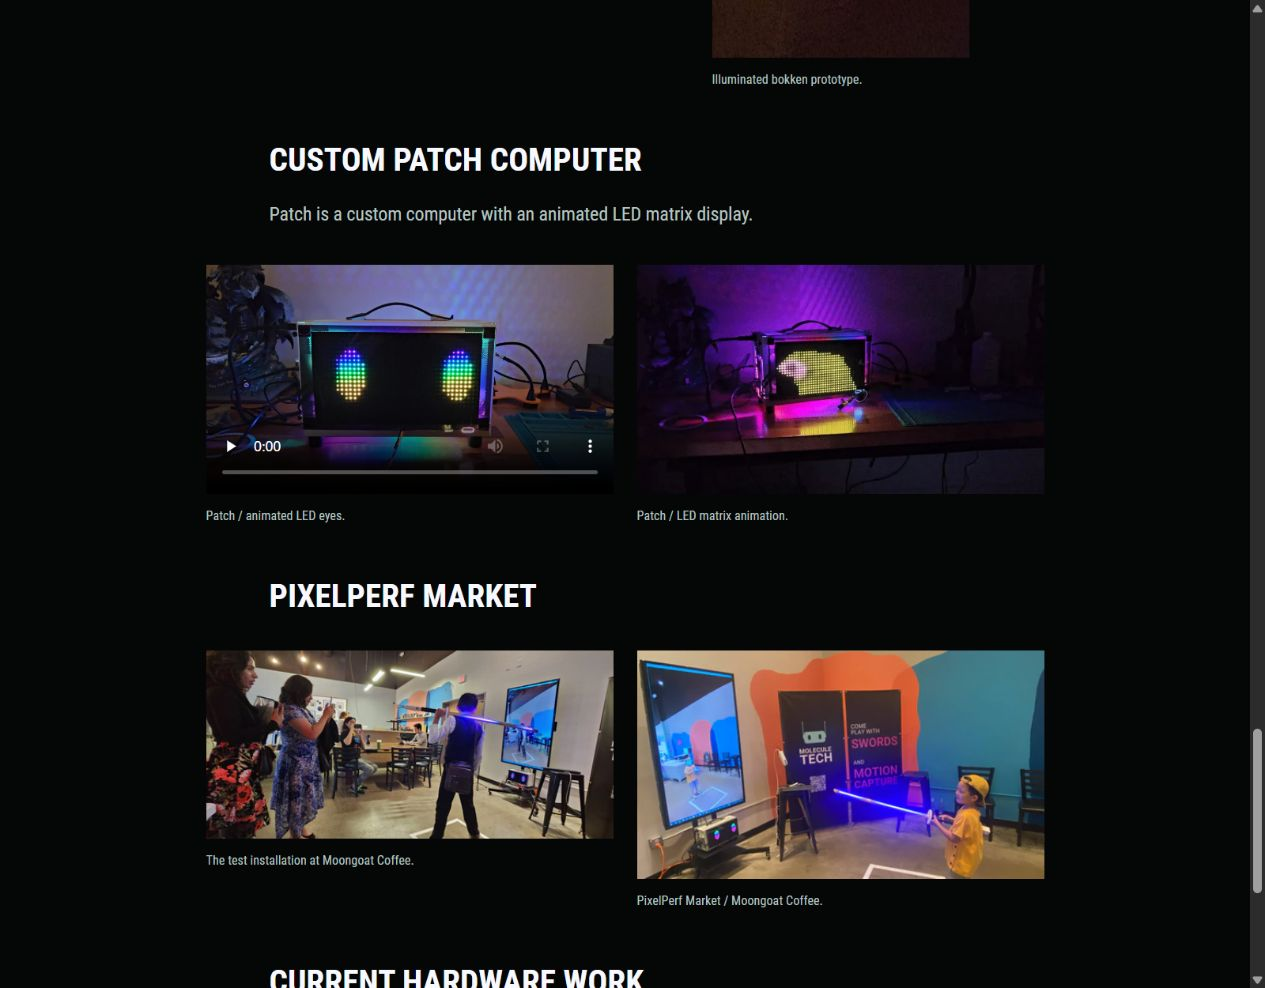
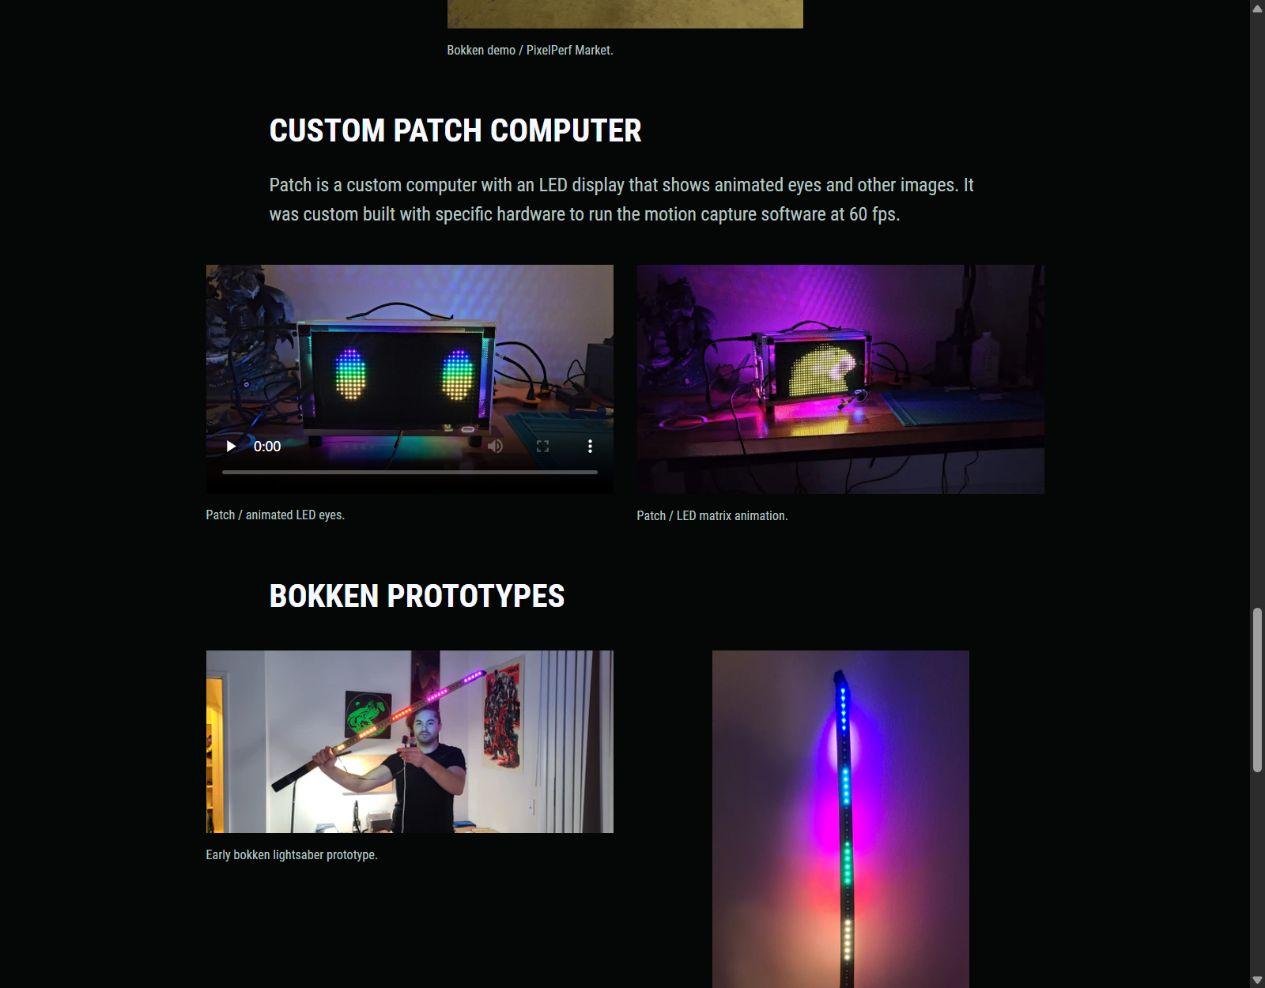
Move Patch above prototypes and revise demo copy

diff --git a/content/work/motion-capture-lightsabers/index.md b/content/work/motion-capture-lightsabers/index.md
@@ -35,22 +35,22 @@ Wooden martial arts practice swords (**bokken**) are fitted with **IMU sensors, 
 
 Each direction has a different color. Point a sword north and it always shows the same color, wherever you are.
 
-{{< work-image source="portfolio/molecule/pixelperf-sword-demo.webp" animated="true" class="portrait" alt="Melissa spinning a bokken at PixelPerf Market as its lights change color." caption="Melissa spinning a bokken / PixelPerf Market." >}}
-
-### Bokken prototypes {#lightsaber-prototypes}
-
-{{< media-grid >}}
-{{< work-image source="portfolio/molecule/lightsaber-prototype-held.jpg" alt="An early bokken lightsaber prototype held horizontally, with the exposed LED strip illuminated in several colors." caption="Early bokken lightsaber prototype." >}}
-{{< work-image source="portfolio/molecule/lightsaber-prototype-lit.jpg" class="portrait" alt="An illuminated bokken prototype leaning upright against a wall." caption="Illuminated bokken prototype." >}}
-{{< /media-grid >}}
+{{< work-image source="portfolio/molecule/pixelperf-sword-demo.webp" animated="true" class="portrait" alt="A visitor spinning a bokken at PixelPerf Market as its lights change color." caption="Bokken demo / PixelPerf Market." >}}
 
 ## Custom Patch computer
 
-Patch is a custom computer with an LED display that shows animated eyes and other images.
+Patch is a custom computer with an LED display that shows animated eyes and other images. It was custom built with specific hardware to run the motion capture software at 60 fps.
 
 {{< media-grid >}}
 {{< work-video source="portfolio/molecule/patch-led-eyes.mp4" poster="portfolio/molecule/patch-led-eyes.jpg" label="Play the custom Patch computer LED display demonstration" caption="Patch / animated LED eyes." >}}
 {{< work-image source="portfolio/molecule/patch-led-animation.webp" animated="true" alt="Looping LED matrix animation on the custom Patch computer." caption="Patch / LED matrix animation." >}}
+{{< /media-grid >}}
+
+## Bokken prototypes {#lightsaber-prototypes}
+
+{{< media-grid >}}
+{{< work-image source="portfolio/molecule/lightsaber-prototype-held.jpg" alt="An early bokken lightsaber prototype held horizontally, with the exposed LED strip illuminated in several colors." caption="Early bokken lightsaber prototype." >}}
+{{< work-image source="portfolio/molecule/lightsaber-prototype-lit.jpg" class="portrait" alt="An illuminated bokken prototype leaning upright against a wall." caption="Illuminated bokken prototype." >}}
 {{< /media-grid >}}
 
 ## PixelPerf Market

diff --git a/AGENTS.md b/AGENTS.md
@@ -19,6 +19,7 @@ Russell requires the preview script to be restarted after website updates.
 - Russell leads the current game's performance initiative through tools, education, and team culture change. Performance is everyone's responsibility. Do not describe him as individually responsible for all game performance. Keep this leadership context in the planning notes and keep public copy focused on concrete tools for this iteration.
 - Hearthstone's credits card follows its horizontal overview, before the additional prose and gameplay media. Russell removed the closing press-kit/artwork/contribution-explanation paragraph. Keep source provenance in the planning notes without restoring that public paragraph.
 - Motion Capture + Lightsabers uses Russell's selected Patch, prototype, and PixelPerf Market media, recorded in `docs/portfolio/assets/molecule-selected-media.json`. Keep prototype images distinct from event documentation. Preserve original photo framing and upright orientation. Actual videos use native controls, posters, no autoplay, and source-width display caps.
+- Place the Custom Patch computer section before Bokken prototypes. Patch was custom built with specific hardware to run the motion capture software at 60 fps. Do not name the participant in the sword animation's caption or alt text.
 - Preserve the continuous looping-image intent of portfolio GIFs. Use animated WebP for smaller delivery where appropriate, retaining original frames, dimensions, timing, and infinite loops. Use `animated="true"` on `work-image` so Hugo publishes the animation directly instead of flattening it through still-image resizing. Keep the original GIF copies in `source-media/`. Do not replace looping images with manually played video.
 - Refer to the Moongoat sword props as bokken, introduced as wooden martial arts practice swords. The first body-tracking photo pair shows the windup (`pixelperf-sword-movement.jpg`) before the extended pose (`pixelperf-sword-pointing.jpg`). Keep its two captions in their original positions.
 - Preserve original media copies, including GIFs and source videos, in organized `source-media/` folders with original filenames and unchanged bytes. Keep this directory outside Hugo's mounts. Record repository source paths and hashes alongside the prepared website assets in the media manifest.

diff --git a/docs/portfolio/33-plain-language-project-copy.md b/docs/portfolio/33-plain-language-project-copy.md
@@ -39,7 +39,7 @@ Applied verbatim to Home, Work, and the case-study introduction. `summaryLines` 
 - The later summary wording was checked on Home, Work, and the project page at 1280px and 390px, with one explicit line break between the two supplied sentences and no horizontal overflow. Rebuilt the site and restarted the preview after this update.
 - Production build passed with Hugo Extended `0.115.4`. The existing ten-route content and asset checks passed.
 - Checked Home, Work, About, and Motion Capture + Lightsabers at 1280px and 390px. The revised copy appears in the expected places without horizontal overflow.
-- Confirmed the north-pointing example and simple sensor explanation on the rendered project page. The original photo order and its two captions remain unchanged, and Melissa's animation is still an image loop.
+- Confirmed the north-pointing example and simple sensor explanation on the rendered project page. The original photo order and its two captions remain unchanged, and the sword animation is still an image loop.
 - Restarted `scripts/preview.ps1` and left the updated project preview running.
 
 ![Bokken copy on desktop](assets/2026-10-25-plain-copy-desktop.jpg)
@@ -47,3 +47,13 @@ Applied verbatim to Home, Work, and the case-study introduction. `summaryLines` 
 ![Bokken copy on mobile](assets/2026-10-25-plain-copy-mobile.jpg)
 
 ![Russell's revised project summary](assets/2026-10-25-wireless-summary.jpg)
+
+## Patch placement and description
+
+Russell clarified that Patch was custom built with specific hardware to run the motion capture software at 60 fps. Added his two-sentence description verbatim and moved the whole Patch section, including its media, immediately before Bokken prototypes. The prototypes use a separate section heading so they do not appear to be part of the Patch computer.
+
+The sword animation's public caption and alt text now describe the demo without naming the participant, as Russell requested.
+
+Checked the new order, exact Patch paragraph, and participant descriptions in the restarted preview at 1280px and 390px. The media pairs stack on mobile without horizontal overflow. The production build and existing ten-route checks passed.
+
+![Patch above the bokken prototypes](assets/2026-10-25-molecule-patch-computer.jpg)

diff --git a/docs/portfolio/31-molecule-selected-media.md b/docs/portfolio/31-molecule-selected-media.md
@@ -9,8 +9,8 @@ Russell supplied ten specific archive files for Motion Capture + Lightsabers, gr
 - The landscape photograph of a visitor beside the body-tracking screen is the new lead on Home, Work, and the case study.
 - Two portrait photographs show a visitor using the bokken in front of the live tracking display, with the windup before the extended pose.
 - Melissa's spinning-bokken GIF appears as a continuously looping portrait WebP image beneath the orientation-to-color description.
+- Custom Patch computer has its own section before the prototypes, with the supplied MP4 and a continuously looping WebP version of the LED matrix GIF. Russell clarified that it was custom built with specific hardware to run the motion capture software at 60 fps.
 - The two prototype photographs sit together under Bokken prototypes, distinct from the event documentation.
-- Custom Patch computer has its own section with the supplied MP4 and a continuously looping WebP version of the LED matrix GIF.
 - Two additional event photographs show the wider installation and another visitor using a bokken.
 
 All ten selections are represented as seven photographs, two looping images, and one video. The project remains Experimental. The original 60 fps body-tracking account and fixed real-world orientation-to-color behavior remain as Russell described them. The recording frame rates do not independently measure the application's performance.
